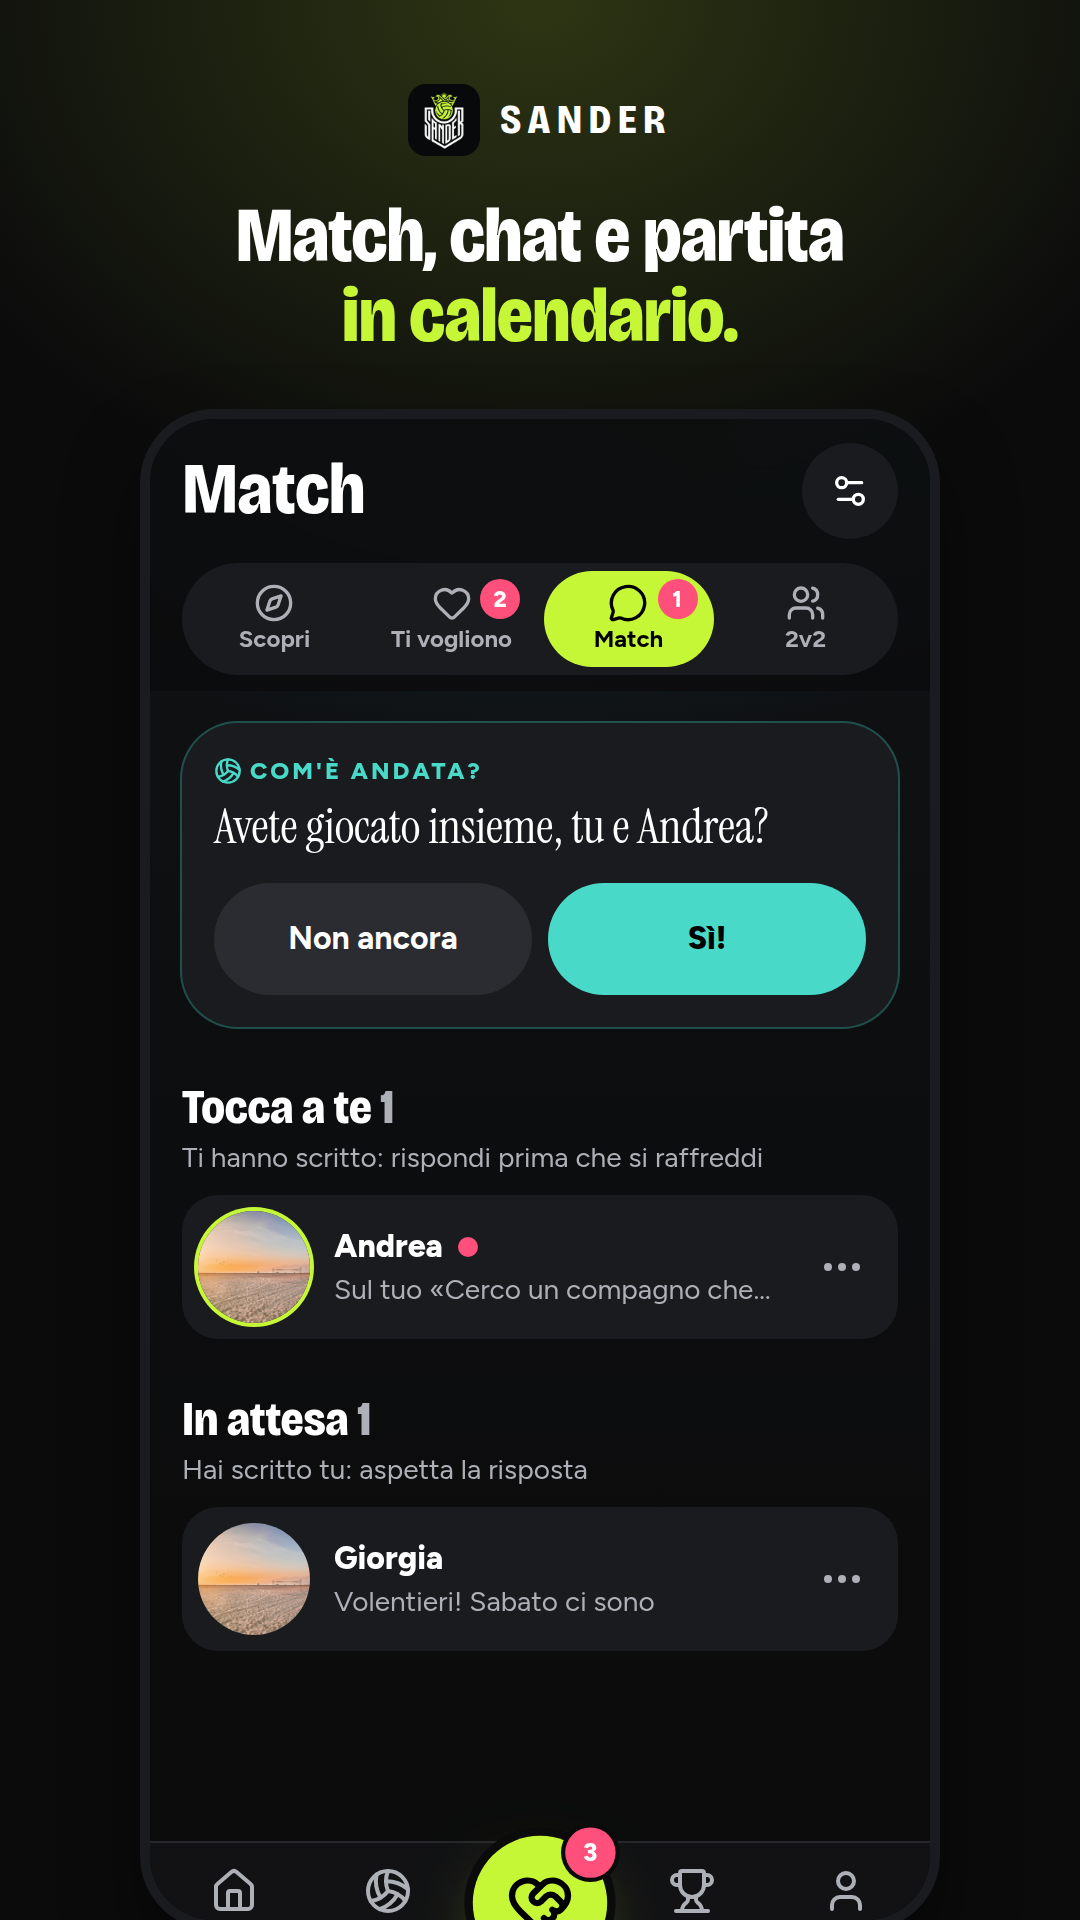
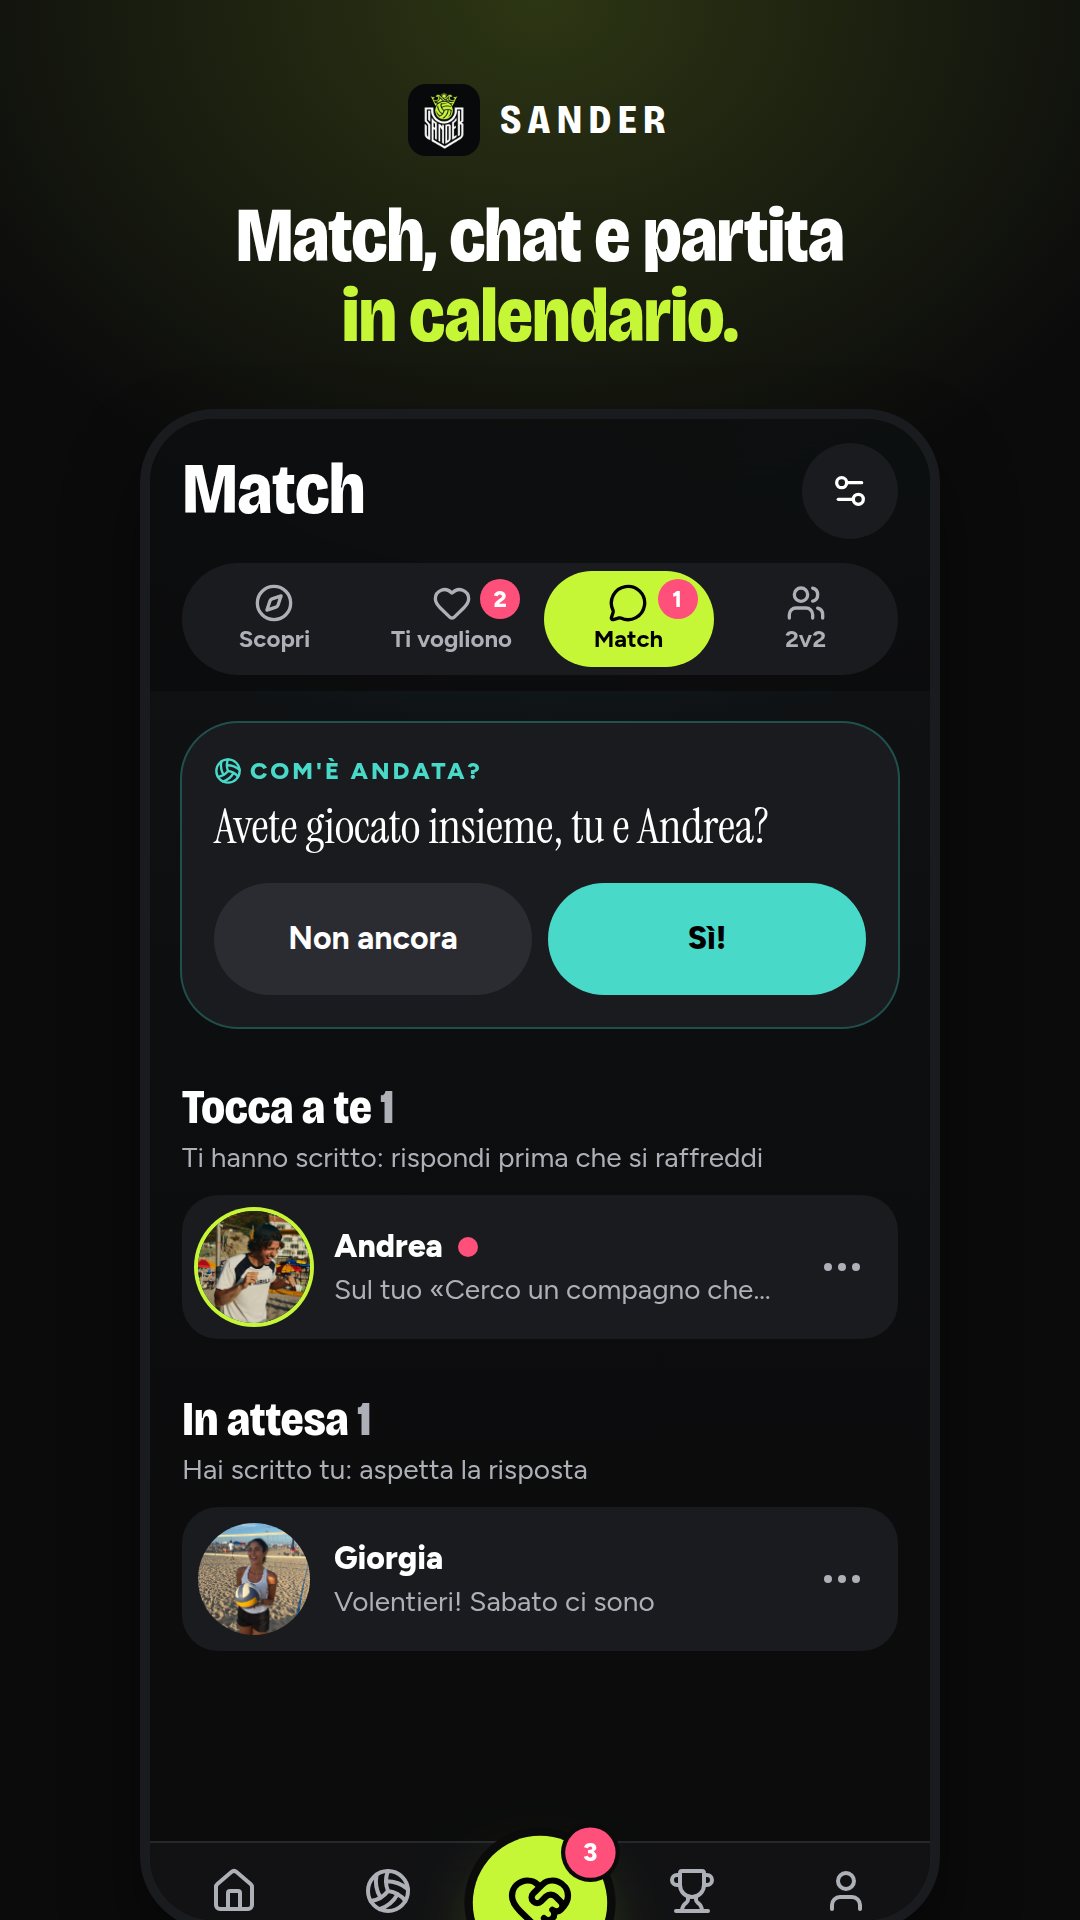
feat: realistic demo players in the Play Store graphics
- 23 generated photos of 11 fictional demo players (public/demo/players),
  same person across each player's photos, no brand marks on clothing.
- scripts/store-demo-photos.mjs points the local demo profiles at them
  (localhost only), before scripts/store-scopri.mjs.
- Feature graphic now has a generated 2v2 sunset photo behind the text.
- Regenerated the 6 store screenshots and the feature graphic.

Claude-Session: https://claude.ai/code/session_01TEV76HmZvLKzfQrcHoWNSv

Changed region(s): [[0.1833, 0.7812, 0.3056, 0.875], [0.1833, 0.625, 0.3056, 0.6875]]

diff --git a/docs/play-store.md b/docs/play-store.md
@@ -61,6 +61,7 @@ Arriva Scopri: trova con chi giocare a colpi di swipe. Like a una foto o a una r
 ## Grafica
 
 Generata con `scripts/store-scopri.mjs` dalle schermate vere, su dati demo (vedi l'intestazione dello script).
+Le foto dei giocatori demo (`public/demo/players/`) e lo sfondo della grafica in evidenza (`scripts/store-assets/hero-2v2.jpg`) sono generate con Higgsfield: persone inventate, nessun marchio sui vestiti. Per usarle nel database locale, i profili demo puntano a `/demo/players/<nome>-<n>.webp`.
 La prova end-to-end (`scripts/e2e/smoke.mjs`) controlla anche che nell'app Android non compaia niente da comprare.
 
 | File | Uso |
